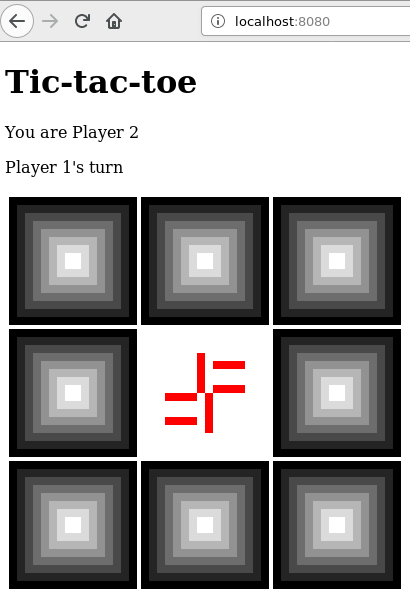
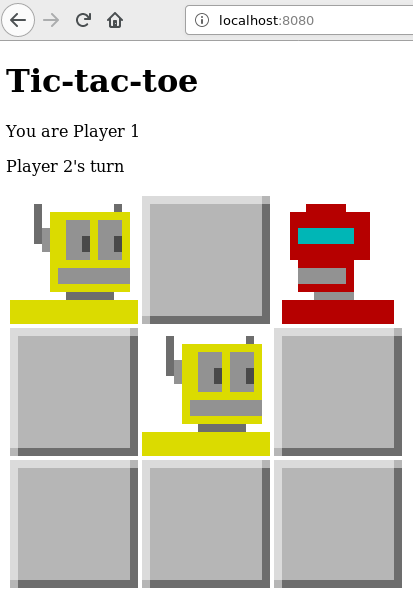
Update background images and screenshot

diff --git a/README.md b/README.md
@@ -85,8 +85,6 @@ Status string: 12 characters with format PSSCCCCCCCCC where
 TODO
 ----
 
-- better background tile
-- update screenshot
 - get root when Ready(Player2)
 - Write all server endpoint tests
 - Bad requests/forbidden should return 400 (bad request) 403 (forbidden)
